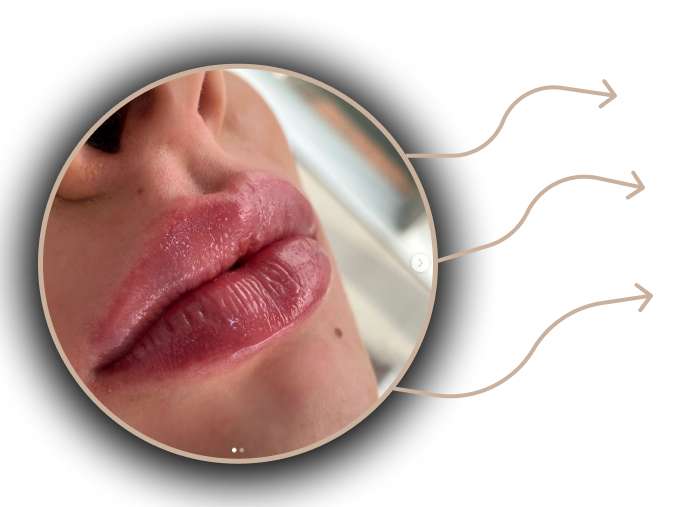
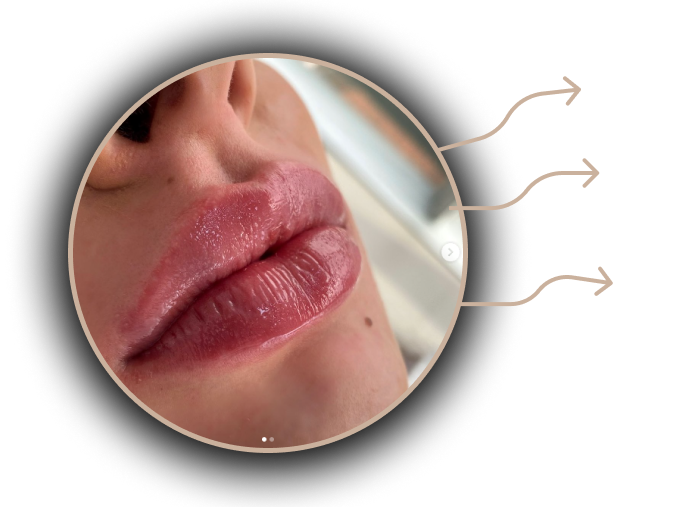
Mobile styled apply

diff --git a/app/components/makeLips/Photo.tsx b/app/components/makeLips/Photo.tsx
@@ -5,26 +5,26 @@ import Photo from "../../../public/makelips/eachLips.png";
 import Image from "next/image";
 
 export default function Benefits() {
-  const size = window.screen.width > 740 
+  const size = window !== undefined && window.screen.width > 740 
 
   const sizes = {
     first : {
-      bottom: size ? '130px' : '30px',
-      right: size ? '50px' : '10px'
+      bottom: size ? '140px' : '30px',
+      right: size ? '70px' : '25px'
     },
     second : {
-      bottom: size ? '70px' : '20px',
-      right: size ? '10px' : '5px'
+      bottom: size ? '80px' : '15px',
+      right: size ? '50px' : '22px'
     },
     third : {
-      bottom: size ? '-10px' : '10px',
-      right: size ? '0px' : '-2px'
+      bottom: size ? '0px' : '0px',
+      right: size ? '40px' : '20px'
     }
   }
   
   return (
     <Container>
-      <Img src={Photo} alt="Cada lábio" />
+      <Img src={Photo} alt="Lábios - Método Mayara Bechi" />
       <TextsContainer>
         <Text bottom={sizes.first.bottom} right={sizes.first.right}>
           Cada lábio tem sua anatomia
@@ -43,6 +43,9 @@ export default function Benefits() {
 const Container = styled.div`
   display: flex;
   align-items: center;
+  @media(max-width: 740px){
+    padding-top: 25px;
+  }
 `;
 
 const TextsContainer = styled.div`
@@ -56,7 +59,7 @@ const Text = styled("p")<{ bottom: string; right: string }>`
   bottom: ${(props) => props.bottom};
   right: ${(props) => props.right};
   @media (max-width: 740px){
-    font-size: 11pt;
+    font-size: 10pt;
   }
 `;
 

diff --git a/app/components/makeLips/MakeLips.tsx b/app/components/makeLips/MakeLips.tsx
@@ -1,11 +1,14 @@
 import React from "react";
 import styled from "styled-components";
-import Button from "../globalStyles/Button";
+import ButtonGrad from "../globalStyles/ButtonGrad";
 import Subtitle from "../globalStyles/Subtitle";
 import { TitleSection } from "../globalStyles/TitleSection";
 import BeforeAndAfter from "./BeforeAndAfter";
-import Blocks from "./Blocks";
-import Photo from "./Photo";
+import dynamic from "next/dynamic";
+
+const Photo = dynamic(() =>  import('./Photo'), {
+  ssr: false,
+});
 
 export default function MakeLips() {
   return (
@@ -19,10 +22,9 @@ export default function MakeLips() {
         todas essas variáveis. É por isso que desenvolvi este treinamento!
       </Text>
       <BeforeAndAfter />
-      <Button
+      <ButtonGrad
         href="#Beneficios"
-        primary={false}
-        content="Quero dominar o preenchimento labial!"
+        text="Quero dominar o preenchimento labial!"
       />
     </Container>
   );
@@ -35,6 +37,10 @@ const Container = styled.section`
   justify-content: center;
   align-items: center;
   flex-direction: column;
+  @media (max-width: 740px){
+    margin-left: 20px;
+    margin-right: 20px;
+  }
 `;
 
 const Title = styled(TitleSection)`

diff --git a/app/components/globalStyles/Button.tsx b/app/components/globalStyles/Button.tsx
@@ -25,7 +25,6 @@ const Container = styled.div`
   padding: 1rem;
   position: relative;
   background: linear-gradient(180deg, #CAB19D 13.54%, rgba(202, 177, 157, 0.1) 100%);
-  /* background: linear-gradient(to right, red, purple); */
   padding: 5px;
   top: 25px;
   border-radius: 13px;
@@ -56,10 +55,8 @@ const ButtonBody = styled.div`
   cursor: pointer;
   font-size: 14pt;
   position: relative;
-  
   text-decoration: none;
-
-
+  
   &:hover {
     background-color: transparent;
     color:  '#cab19d';
@@ -72,7 +69,6 @@ const ButtonBody = styled.div`
     width: 90%;
   }
 `;
-
 
 const Text = styled.p`
     background: linear-gradient(180deg, #CAB19D 21.35%, rgba(202, 177, 157, 0.08) 100%);

diff --git a/app/components/price/Price.tsx b/app/components/price/Price.tsx
@@ -6,13 +6,12 @@ import TitleDestak from "../globalStyles/TitleDestak";
 import ButtonGrad from "../globalStyles/ButtonGrad";
 import styled from "styled-components";
 import MethodsImg from "../../../public/methods.png";
-import Button from "../globalStyles/Button";
 import Image from "next/image";
 
 export default function Price() {
   return (
     <Container>
-      <ContainerDestak>
+      <ContainerDestak size="auto">
         <PriceBody>
           <TitleDestak fontSize={44} text="Investimento" />
           <Destak>Por apenas 12x de</Destak>

diff --git a/app/components/learn/LearnModules.tsx b/app/components/learn/LearnModules.tsx
@@ -59,6 +59,9 @@ const Content = styled("div")<{ select: number; number: number }>`
   background-color: rgba(217, 217, 217, 0.12);
   opacity: ${(props) => (props.select === props.number ? "100%" : "0%")};
   height: ${(props) => (props.select === props.number ? "130px" : "0px")};
+  @media(max-width: 740px){
+    height: ${(props) => (props.select === props.number ? "160px" : "0px")};
+  }
 `;
 
 const ModuleNumber = styled.p`

diff --git a/app/components/globalStyles/ButtonGrad.tsx b/app/components/globalStyles/ButtonGrad.tsx
@@ -2,7 +2,12 @@ import React from "react";
 import styled from "styled-components";
 import ContainerDestak from "./ContainerDestak";
 
-export default function ButtonGrad({ text, href }) {
+ type ButtonGradProps = {
+  text: string
+  href: string
+ }
+
+export default function ButtonGrad({ text, href }: ButtonGradProps) {
   return (
     <Link href={href}>
       <Container>

diff --git a/app/components/forWho/ForWho.tsx b/app/components/forWho/ForWho.tsx
@@ -22,15 +22,6 @@ const ForWhoContainer = styled.section`
   justify-content: center;
 `;
 
-/* const Title = styled.p`
-  color: #cab19d;
-  font-size: 22pt;
-  font-weight: 700;
-  @media(max-width: 740px){
-    font-size: 18pt;
-  }
-`; */
-
 const Text = styled.p`
   text-align: center; 
   font-size: 12pt;

diff --git a/app/components/pains/Pains.tsx b/app/components/pains/Pains.tsx
@@ -14,11 +14,11 @@ export default function Pains() {
 }
 
 const PainsContainer = styled.section`
-  padding: 60px;
   display: flex;
   flex-direction: column;
   align-items: center;
   justify-content: center;
+  
   @media (max-width: 740px){
     padding: 20px;
   }

diff --git a/app/components/benefits/BenefitsContent.tsx b/app/components/benefits/BenefitsContent.tsx
@@ -6,7 +6,7 @@ import ContainerDestak from "../globalStyles/ContainerDestak";
 
 export default function BenefitsContent() {
   return (
-    <Content>
+    <Content size="auto">
       <BefefitsBlocks />
     </Content>
   );

diff --git a/app/components/benefits/Benefits.tsx b/app/components/benefits/Benefits.tsx
@@ -25,6 +25,9 @@ const BenefitsContainer = styled.section`
   flex-wrap: wrap;
   justify-content: center;
   align-items: center;
+  @media (max-width: 740px){
+    padding-top: 0px;
+  }
 `;
 
 const Title = styled.div`
